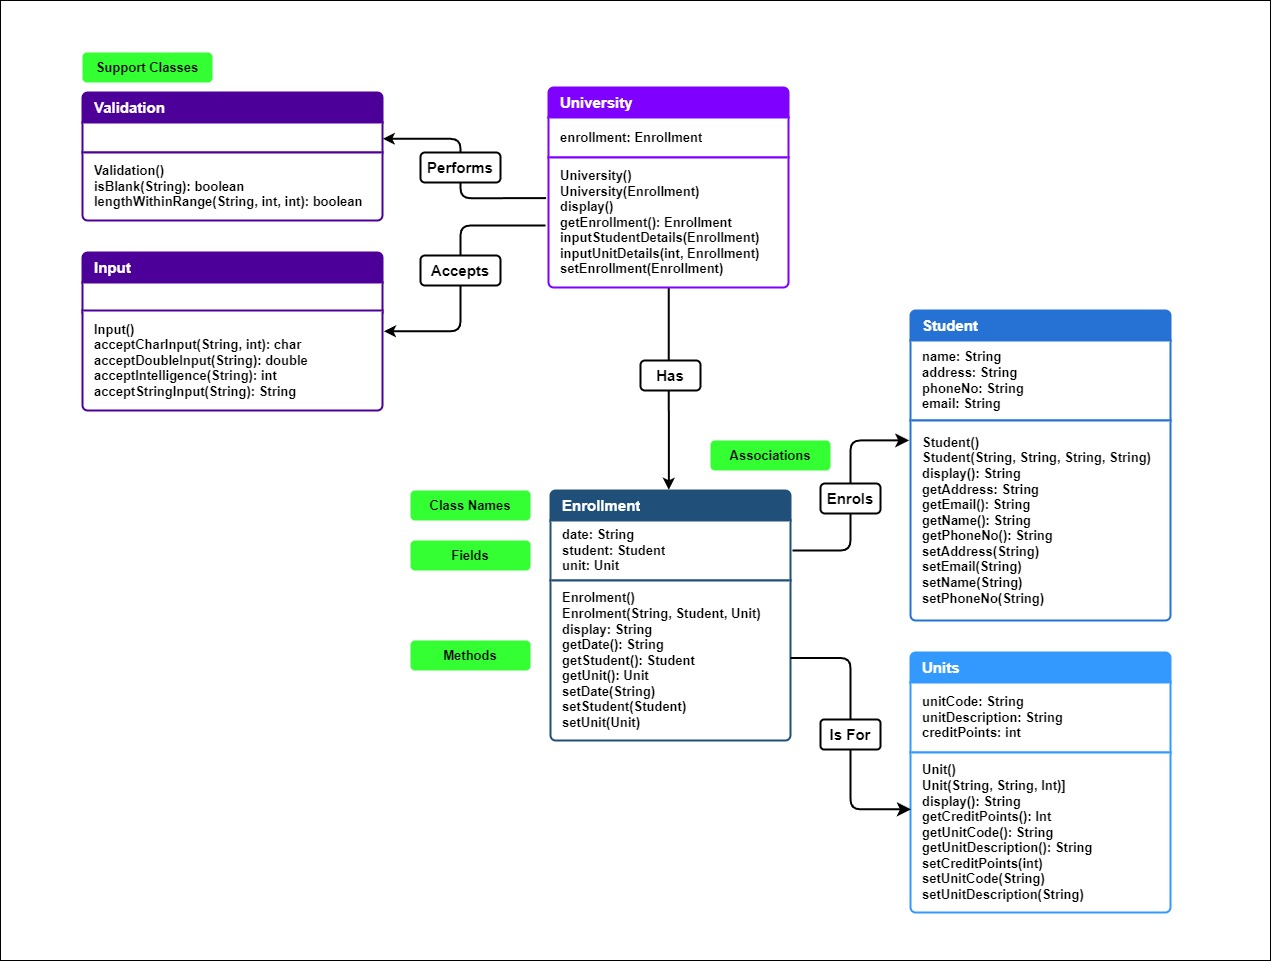
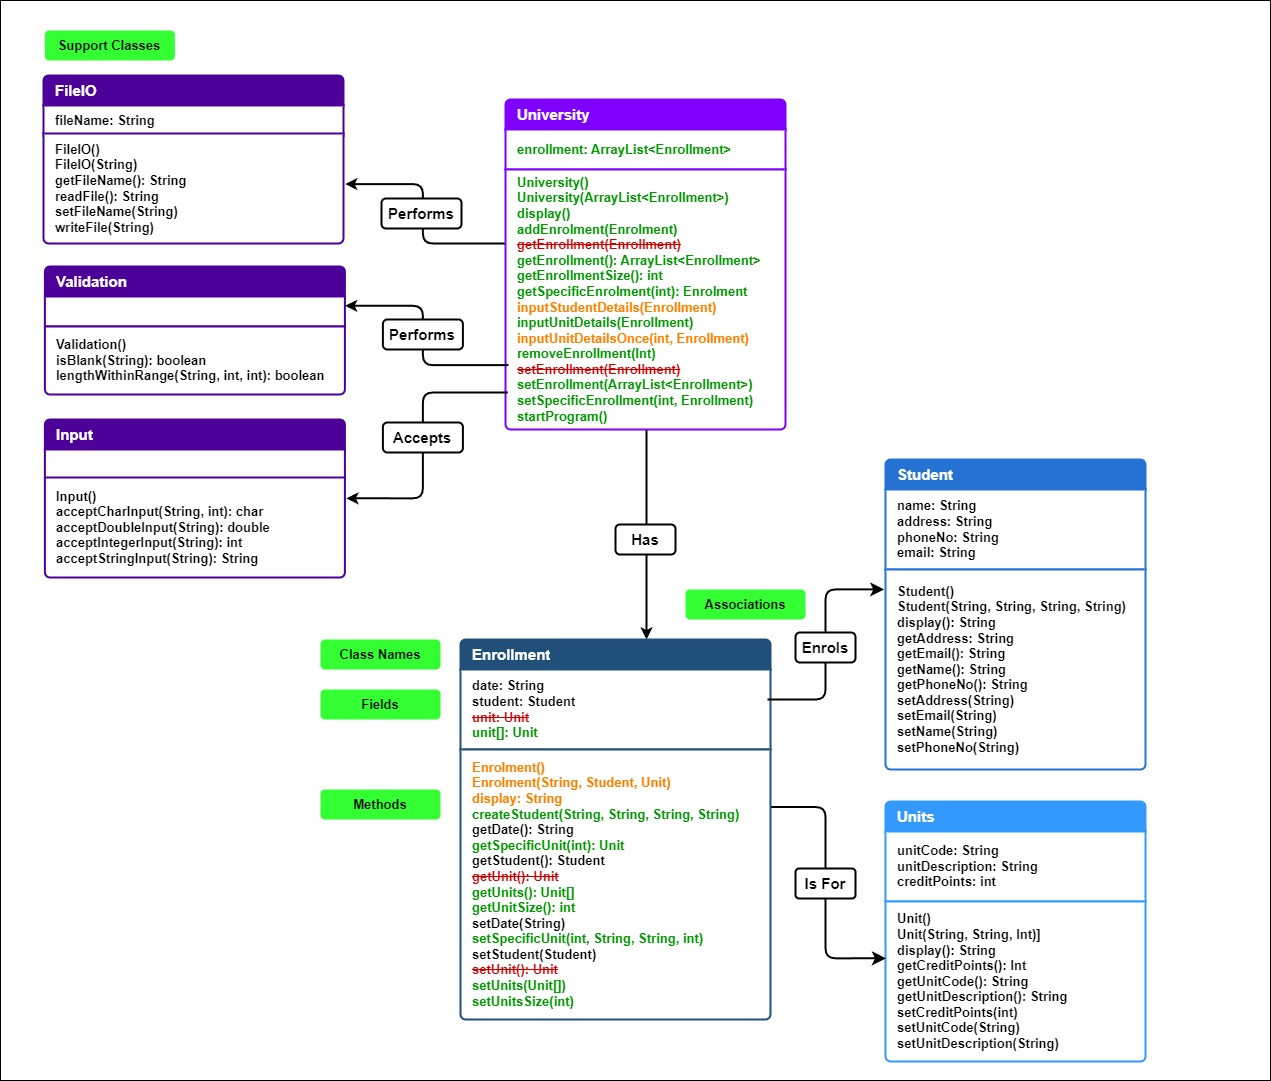
Updated Unviersity - Work in Progress

Changed region(s): [[0.0, 0.3122, 1.0, 1.0], [0.0307, 0.0, 0.6444, 0.5307], [0.583, 0.6868, 0.6137, 0.718]]

diff --git a/Java Programming/Assesment Rolling Project/src/University.java b/Java Programming/Assesment Rolling Project/src/University.java
@@ -5,55 +5,85 @@
  * @version 1.00
  */
 
-import java.util.ArrayList; 
+import java.util.ArrayList;
+import java.util.stream.IntStream; 
 
 public class University
 {
     // Fields
-    private Enrollment enrollment; 
+    ArrayList<Enrollment> enrollments;
 
     /**
      * Default Constructor
      */
     public University() {
-        enrollment = new Enrollment(); 
+        enrollments = new ArrayList<Enrollment>(); 
     }
 
     /**
      * Non-Defualt Constructor
-     * @param enrollment The New Enrollment Information as an Object of the Enrollment Class
+     * @param enrollment The New Enrollment Information as an Array List of Objects of the Enrollment Class
      */
-    public University(Enrollment enrollment) {
-        this.enrollment = enrollment; 
+    public University(ArrayList<Enrollment> enrollments) {
+        this.enrollments = enrollments; 
     }
 
     /**
      * Display Method: Display the University Information
+     * @return A String Output of the Array List of Enrollment of Ojects
      */
-    public String displayUniversity() {
-        return this.enrollment.displayEnrollment(); 
+    public String displayUniversity() 
+    {
+        StringBuffer enrollmentText = new StringBuffer(); 
+        for (Enrollment enrollment:this.enrollments)
+        {
+            if (enrollment != null) {
+                enrollmentText.append(enrollments); 
+            }
+        }
+        return enrollmentText.toString(); 
+    }
+    
+    /** 
+     * Custom Method: Add a New Enrollment into the Array List
+     * @param enrollment The new Enrollment Information to be added as an Object of te Enrollment Class
+     */
+    public void addEnrollment(Enrollment enrollment)
+    {
+        this.enrollments.add(enrollment); 
     }
 
     /** 
      * Accessor Method: Get the Enrollment Details
-     * @return the Enrollment Information as a object of the Enrollment Class
+     * @return The Enrollment Information as a Array List of Objects of the Enrollment Class
      */
-    public Enrollment getEnrollment() {
-        return this.enrollment; 
+    public ArrayList<Enrollment> getEnrollment() 
+    {
+        return this.enrollments; 
     }
-    
-    /* Now write the inputStudentDetails() method.
-       The purpose of this method is to accept student information by asking the user to enter all the 
-       student information one at a time while performing the following validations on the inputs:
 
-       For the Student object:
-       name, address, phoneNo, and email cannot be blank.
-       If any of the validations fail, print a message on the screen and assign the default value specified in the default constructor.
-       The method then assigns these values to the student fields in the enrolment class.
-        
-       Hint: You can achieve this by obtaining the object first from the Enrolment class via a method 
-       and then using that object to call another method in the Student class to set the value. Which method would that be?
-   */
+    /** 
+     * Accessor Method: Get the Enrollment Size
+     * @return The size of the the Enrollment Arraylist as an Integer
+     */
+    public int getEnrollmentSize()
+    {
+        return this.enrollments.size(); 
+    }
+
+    /** 
+     * Accesor Method: Get the Specific Enrollment Details
+     * @param index The Index of th Enrollment Object in the Arrray List as an Integer
+     * @return The Enrollment as an Object information at the Index of the Array List
+     * @throw IndexOutOfBoundsException The Index Input out ouf Bounds of the Array List Size
+     */
+    public Enrollment getSpecificEnrollment(int index)
+    {
+        if (index < 0 || index >= this.enrollments.size()) {
+            throw new IndexOutOfBoundsException("The Index is out of bound of the Enrollment Array List");
+        }
+        return this.enrollments.get(index); 
+    }
 
    /** 
     * Custom Method: Method to get User Input for the Student Details
@@ -92,35 +122,40 @@ public class University
         student.setEmail(userResponse[3]);
     }
 
-    /* 
-     * Now write the inputUnitDetails() method.
-     * The purpose of this method is to accept unit information by asking the user to enter all the unit information one at a time 
-     * while performing the following validations on the inputs via the Input class:
+    /**
+     * Custom Method: Get User to Input to Enrol Student
+     * @param enrollments The Enrollments Array Lists to be updated for Inputs by the User
+     */
+    public void inputUnitDetails(ArrayList<Enrollment> enrollments)
+    {   
+        // Check if enrollment has values 
+        if (enrollments == null || enrollments.isEmpty()) {
+            System.out.print("The Enrollment ArrayList is Empty"); 
+        }
 
-     * For the Unit object:
-     * unitCode cannot be blank and must be exactly 7 characters long.
-     * unitDescription cannot be blank and must be less than 25 characters long 
-     * creditPoints cannot be < 0.
-
-     * If any of the validations fail, print a message on the screen and assign the default value specified in the default constructor.
-     * The method then assigns these values to the unit fields in the enrolment class.
-     * Hint: You can achieve this by obtaining the object first from the Enrolment class via a method and then 
-     * using that object to call another method in the Unit class to set the value. Which method would that be? 
-     * */
+        // Integer Stream: Sequence of Numbers | From a Range of 0 to ArraListSize - For each element excute process) 
+        IntStream.range(0, enrollments.size()).forEach(index -> inputUnitDetailsOnce(index, enrollments.get(index)));
+    }
 
     /** 
-     * Custom Method: Get User to Input the Unit Details
+     * Custom Method: Get User to Input the Unit Details Once
      * @param enrollment The Enrollment Object to be Updated by th User; Passed as an Object of the Enrollment Class
+     * @throw IndexOutOfBoundsException The index is out of bounds of the Array List
      */
-    public void inputUnitDetails(Enrollment enrollment)
+    public void inputUnitDetailsOnce(int index, Enrollment enrollment)
     {   
         // Get the Unit Object from the Enrollment Class
-        Unit unit = enrollment.getUnit(); 
+        Unit[] units = enrollment.getUnits(); 
         Input inputFromUser = new Input(); 
         Validation validateInput = new Validation(); 
         
         String[] inputFields = {"Unit Code", "Unit Desecription", "Credit Score"}; 
         String userResponse; 
+
+        // May need to verify if the Index is within Bounds
+        if (index < 0 || index >= this.enrollments.size()) {
+            throw new IndexOutOfBoundsException("The index is out of bounds of the Array List"); 
+        }
         
         // Get User Input and Validate the Input 
         for (int iterI = 0; iterI < inputFields.length; iterI++)
@@ -133,34 +168,31 @@ public class University
                     case 0: // Unit Code cannot be blank and must be exactly 7 characters long.  
                     userResponse = inputFromUser.acceptStringInput("Input " + inputFields[iterI] + ":"); 
                     if (validateInput.isBlank(userResponse) || userResponse.length() != 7){     
-                        userResponse = ""; // Default Constructor also initializes null 
                         System.out.println("Validation Failed: Unit Code cannot be Blank and must be Exactly 7 Characeters Long");
                     } else {
+                        units[index].setUnitCode(userResponse);
                         validInput = true; 
                     }
-                    unit.setUnitCode(userResponse);
                     break; 
                     
                     case 1: // Unit Description Must not be Blank and must be less than 25 Characters in Length
                     userResponse = inputFromUser.acceptStringInput("Input " + inputFields[iterI] + ":"); 
-                    if (validateInput.isBlank(userResponse) || userResponse.length() > 25) {
-                        userResponse = ""; // Default Constructor also initializes null 
+                    if (validateInput.isBlank(userResponse) || userResponse.length() > 25) { 
                         System.out.println("Validation Failed: Unit Desecription must not be Blank and be less than 25 Characters in Length"); 
                     } else {
+                        units[index].setUnitDescription(userResponse);
                         validInput = true; 
                     }
-                    unit.setUnitDescription(userResponse);
                     break; 
                     
                     case 2: // Credit Point Must not be smaller than 0 
                     int userResponseInteger = inputFromUser.acceptIntegerInput("Input " + inputFields[iterI] + ":"); 
-                    if (userResponseInteger < 0) {
-                        userResponseInteger = 0; 
+                    if (userResponseInteger < 0) { 
                         System.out.println("Validation Failed: The Credit Score must not be lesser than the value 0 "); 
                     } else {
-                        validInput = false; 
+                        units[index].setCreditPoints(userResponseInteger);
+                        validInput = true; 
                     }
-                    unit.setCreditPoints(userResponseInteger);
                     break; 
 
                     default: 
@@ -169,6 +201,42 @@ public class University
                 }
             }
         }
+    }
+    
+    /** 
+     * Custom Method: Removes an Enrollment Object from Array List
+     * @param index The Index of the Enrollment Objec to be Removed from the Array List
+     * @throw IndexOutOfBoundsException The Index is out of bounds of the Array List 
+     */
+    public void removeEnrollment(int index)
+    {
+        if (index < 0 || index >= this.enrollments.size())
+        {
+            throw new IndexOutOfBoundsException("The Index is out of bounds of the Array List"); 
+        }
+        this.enrollments.remove(index); 
+    }
+
+    /** Mutator Method: Set Enrolment Details
+     * @param enrollments An ArrayList of Enrollment Objects of the Enrollment Class
+     */
+    public void setEnrollment(ArrayList<Enrollment> enrollments)
+    {
+        this.enrollments = enrollments; 
+    }
+
+    /**
+     * Mutator Method: Set Specific Enrollment Details
+     * @param index The Index of the Enrollment Object to be Set in the Array List
+     * @param enrollment The new Enrollment object to be Updated at the Index
+     * @throw The Index is out of bounds for the Enrollment ArrayList
+     */
+    public void setSpecificEnrollment(int index, Enrollment enrollment)
+    {
+        if (index < 0 || index >= this.enrollments.size()) {
+            throw new IndexOutOfBoundsException("The Index is out of bounds for the Enrollment ArrayList"); 
+        }
+        this.enrollments.set(index, enrollment);
     }
 
     /*
@@ -186,8 +254,8 @@ public class University
     public static void main(String[] args)
     {   
         Input userInput = new Input(); 
-        Enrollment enrollment = new Enrollment(); 
-        University university = new University(enrollment); 
+        ArrayList<Enrollment> enrollments = new ArrayList<Enrollment>(); 
+        University university = new University(enrollments); 
 
         System.out.println("\nThis is the University Enrollment Program."); 
         String userSelection = userInput.acceptStringInput("Please Enter:\n1 - To Enroll a Student\n2 - To Exit the Program"); 
@@ -200,11 +268,11 @@ public class University
                 newEnrollmentDate = ""; // Default Value of String in Default Constructor is also Null
                 System.out.println("The Enrollment Date should not be Blank"); 
             }
-            enrollment.setDate(newEnrollmentDate);
+            enrollments.setDate(newEnrollmentDate);
             
             // Get user to Input the Student and Unit Details
-            university.inputStudentDetails(enrollment);
-            university.inputUnitDetails(enrollment);
+            university.inputStudentDetails(enrollments);
+            university.inputUnitDetails(enrollments);
 
             // Display the University Object Information
             System.out.println(university.displayUniversity());
